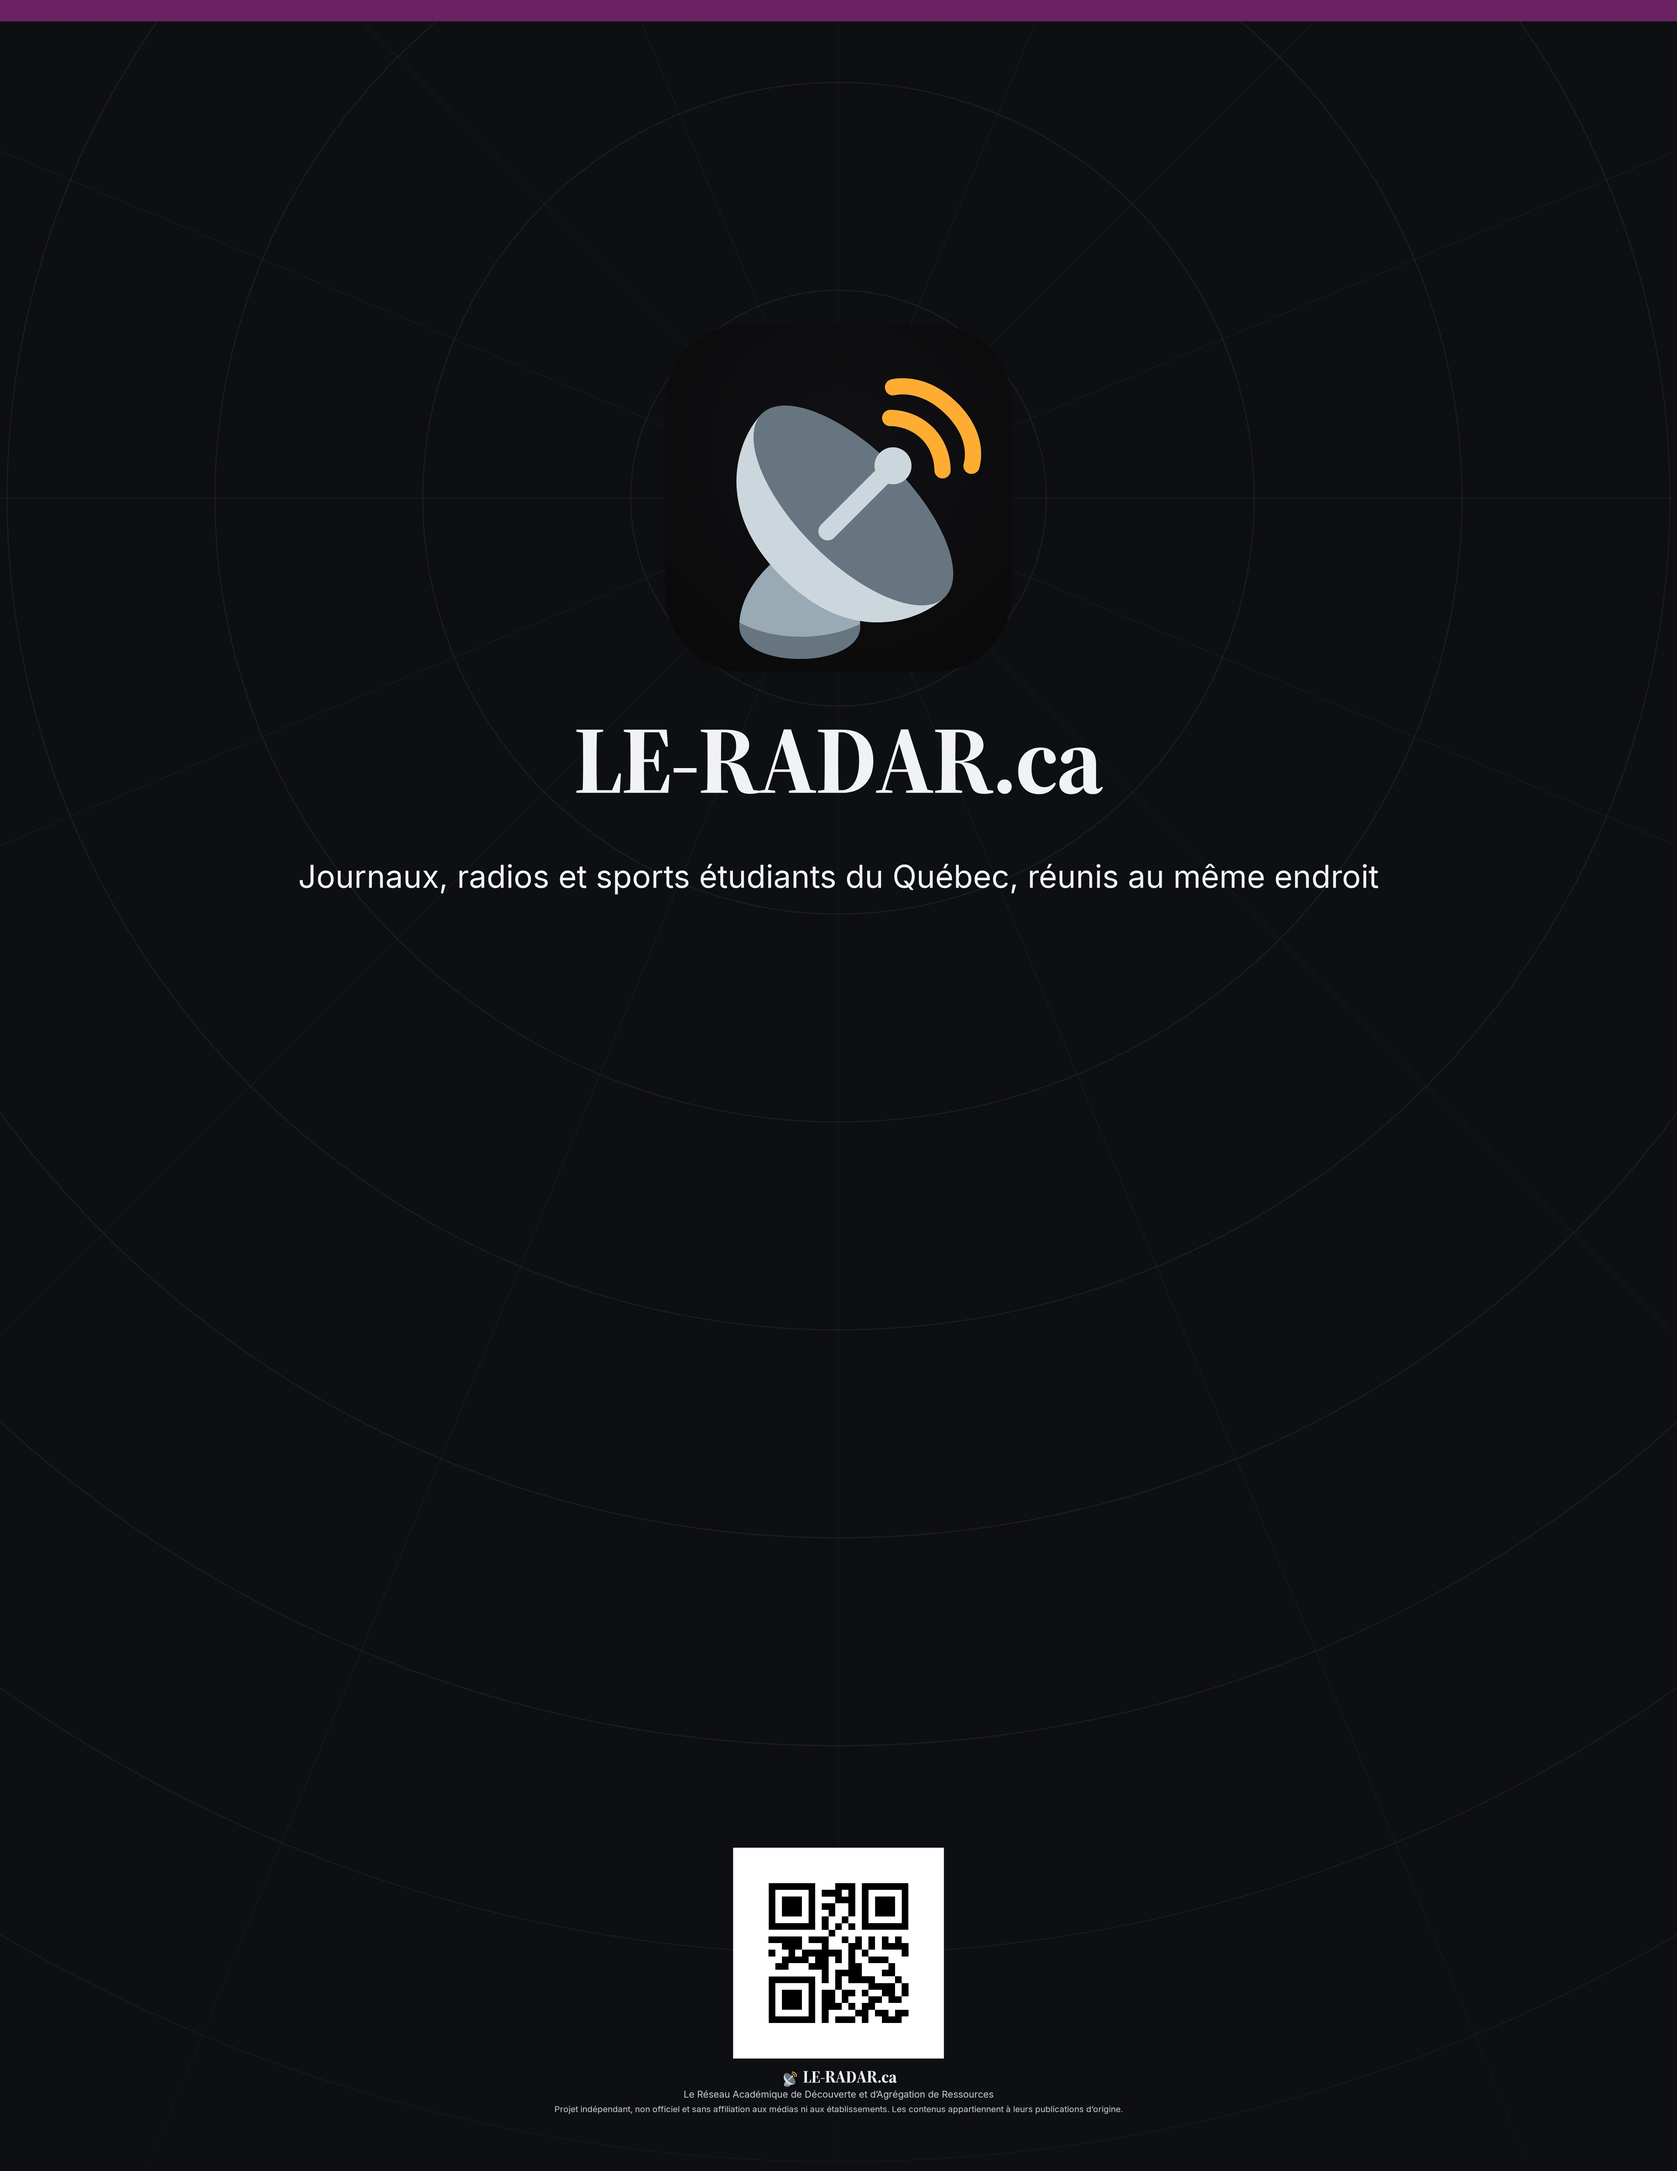
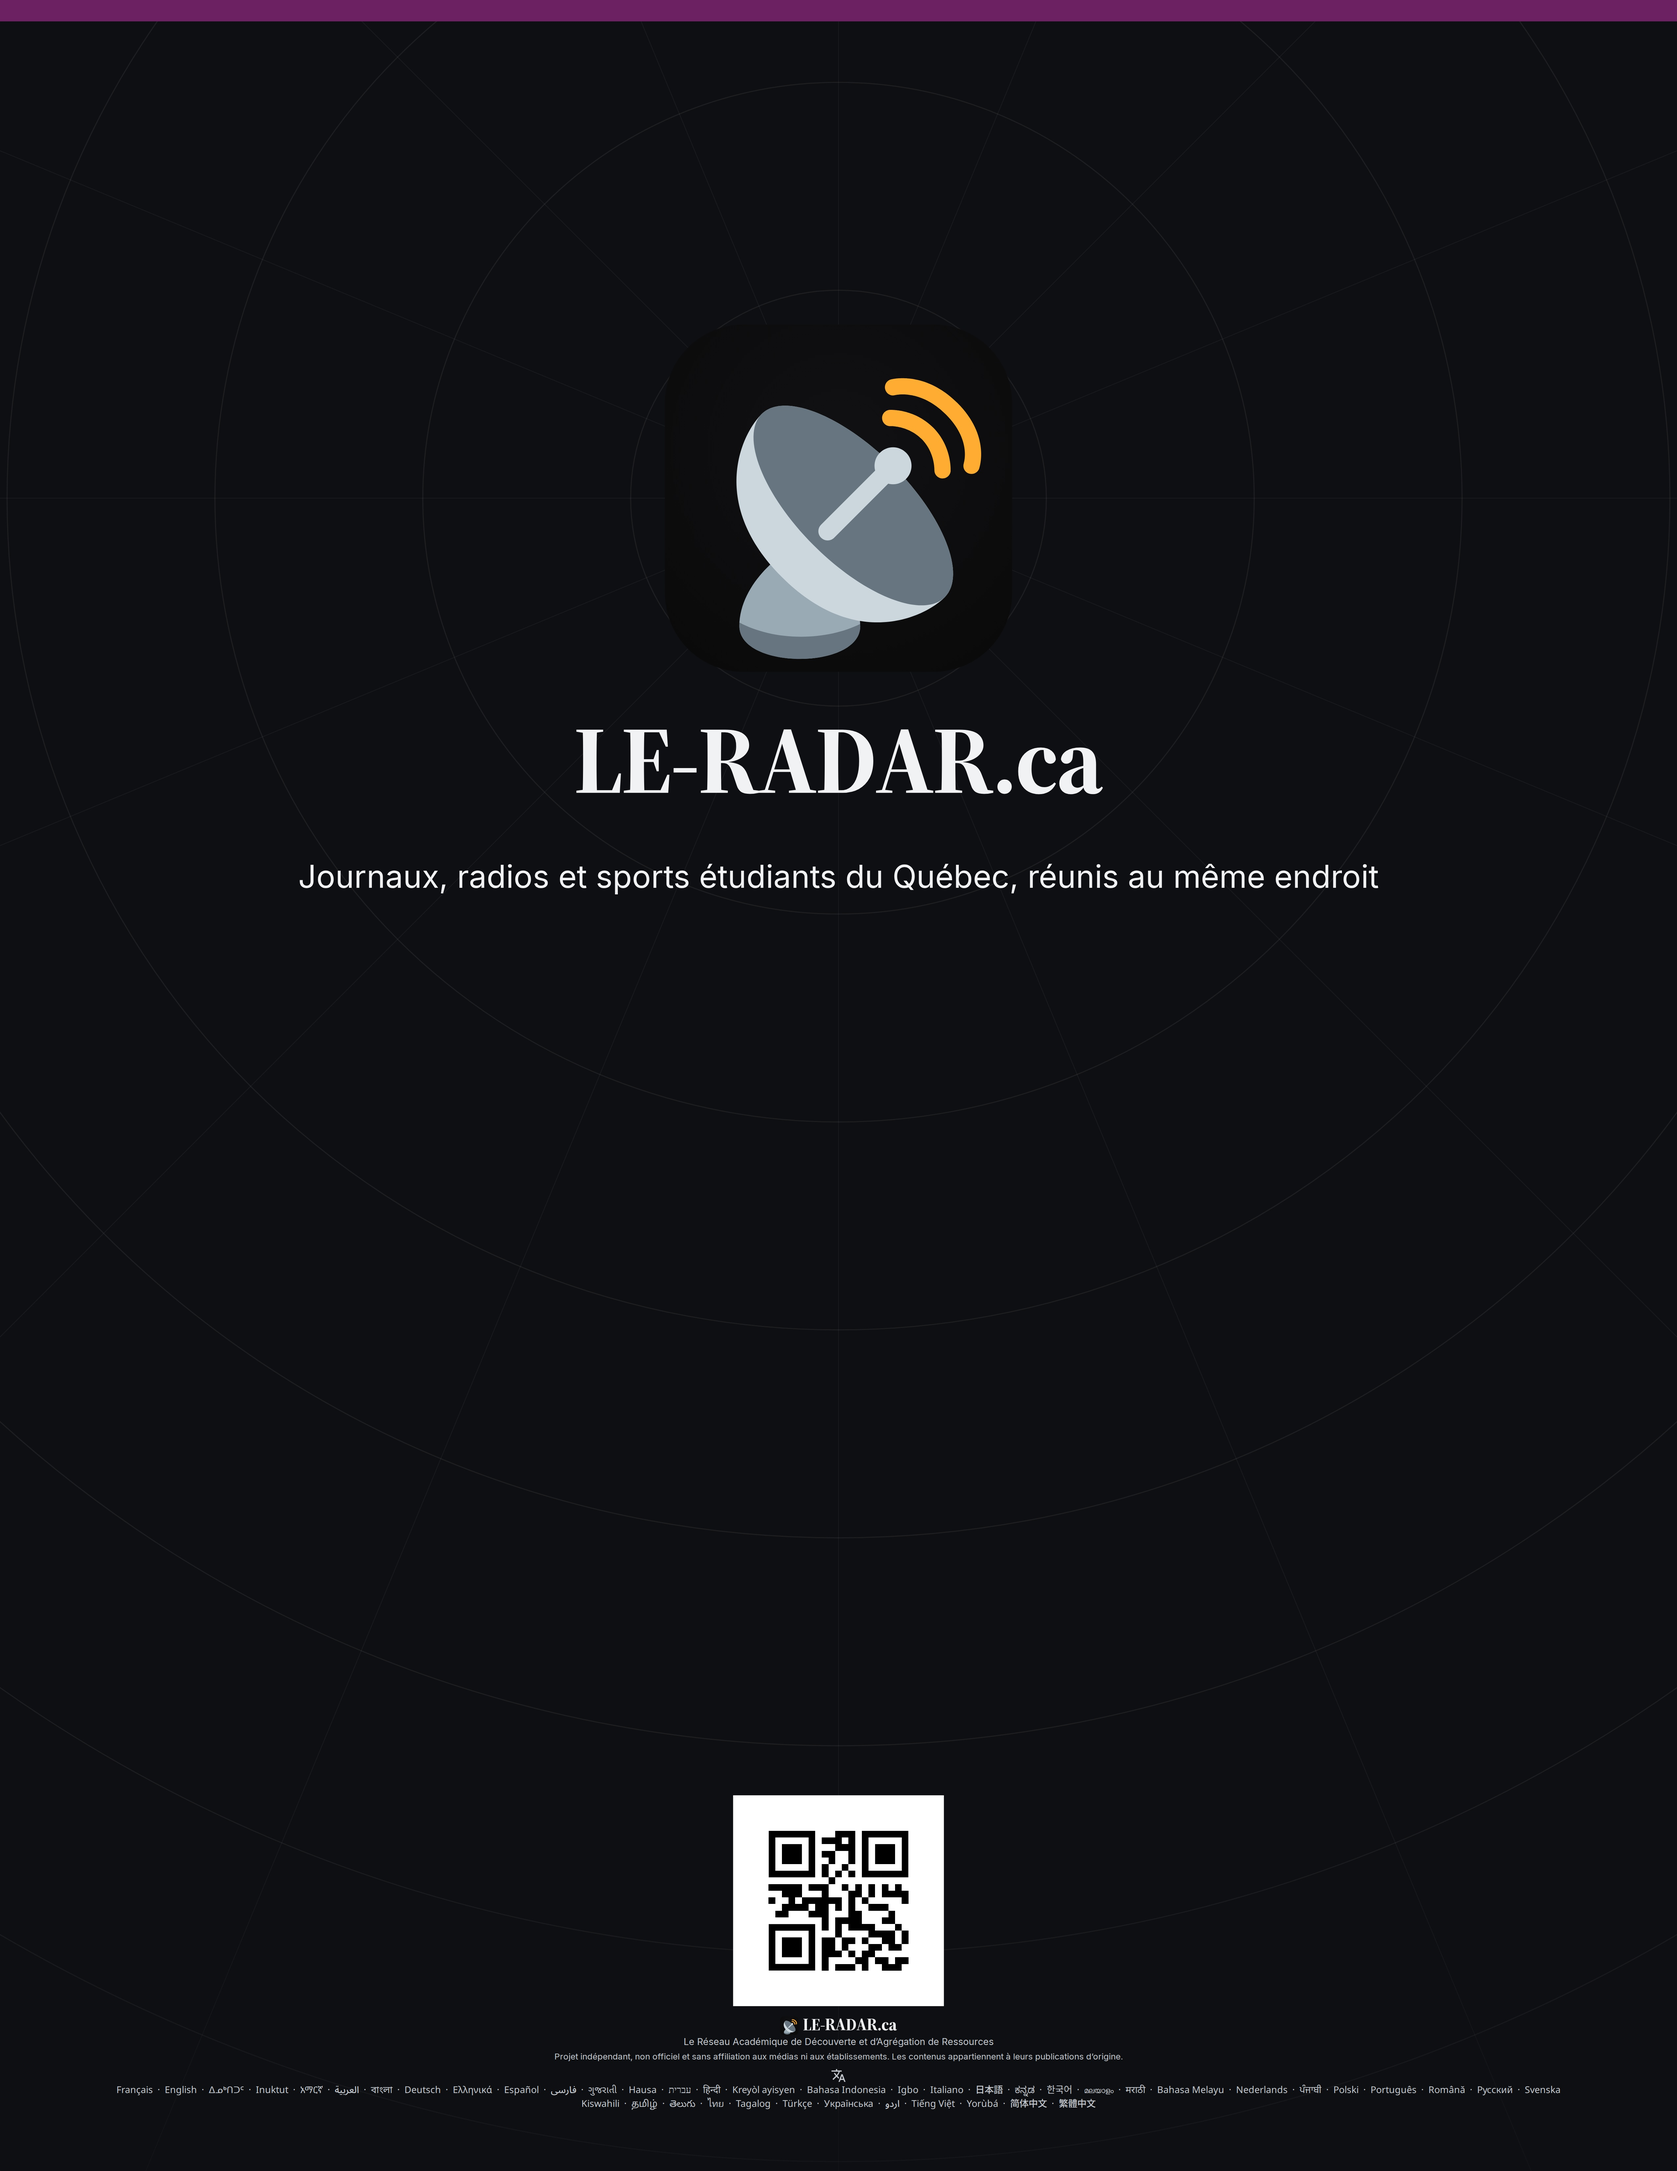
feat(affiches): languages on by default for the generic poster
Générique always includes the site language list. Kit-media default
JPEGs are re-exported with that setting.

Changed region(s): [[0.4053, 0.8115, 0.5924, 0.9676]]

diff --git a/affiches/index.html b/affiches/index.html
@@ -170,8 +170,8 @@
         <fieldset>
           <legend>Langues</legend>
           <div class="choices">
-            <label><input type="radio" name="langs" value="non" checked> Sans</label>
-            <label><input type="radio" name="langs" value="oui"> Langues du site</label>
+            <label><input type="radio" name="langs" value="non"> Sans</label>
+            <label><input type="radio" name="langs" value="oui" checked> Langues du site</label>
           </div>
           <p class="field-hint">Pied d’affiche : icône de traduction, puis les langues dans leur écriture.</p>
         </fieldset>
@@ -267,6 +267,6 @@
   <script src="../engage-prompt.js" defer></script>
   <script src="../dev/midwidth-preview.js?v=wide-auto-e91"></script>
   <script src="../dev/wide-desktop-preview.js?v=wide-auto-e91"></script>
-  <script src="./poster-builder.js?v=kit-campus"></script>
+  <script src="./poster-builder.js?v=langs-default"></script>
 </body>
 </html>

diff --git a/affiches/poster-builder.js b/affiches/poster-builder.js
@@ -172,7 +172,7 @@ const state = {
   campus: 'generique',
   lang: 'standard',
   greeting: 'none',
-  langs: false,
+  langs: true,
   showUni: true,
   qr: true,
   dpi: DEFAULT_DPI,
@@ -990,6 +990,14 @@ function applyQuery() {
     const input = document.querySelector(`input[name="campus"][value="${campus}"]`);
     if (input) input.checked = true;
   }
+  syncGenericLangs();
+}
+
+function syncGenericLangs() {
+  if (state.campus !== 'generique') return;
+  state.langs = true;
+  const oui = document.querySelector('input[name="langs"][value="oui"]');
+  if (oui) oui.checked = true;
 }
 
 function applyChoice(name, value) {
@@ -1002,6 +1010,7 @@ function applyChoice(name, value) {
   if (name === 'campus') {
     state.campus = value;
     state.photoOpen = false;
+    syncGenericLangs();
     syncLangChoice();
     renderChoices();
   }

diff --git a/kit-media/index.html b/kit-media/index.html
@@ -119,7 +119,7 @@
             </div>
             <div class="kit-card__body">
               <p class="kit-card__label">Affiche générique</p>
-              <p class="kit-card__meta">Réglages par défaut · 600 dpi · JPEG</p>
+              <p class="kit-card__meta">Réglages par défaut · langues · 600 dpi · JPEG</p>
               <p class="kit-dl">
                 <a href="../assets/kit/affiches/affiche-generique-11x17-600dpi.jpg" download>11 × 17</a>
                 <a href="../assets/kit/affiches/affiche-generique-lettre-600dpi.jpg" download>Lettre</a>

diff --git a/en/media-kit/index.html b/en/media-kit/index.html
@@ -64,7 +64,7 @@
             </div>
             <div class="kit-card__body">
               <p class="kit-card__label">Default poster</p>
-              <p class="kit-card__meta">Studio defaults · 600 dpi · JPEG</p>
+              <p class="kit-card__meta">Studio defaults · languages · 600 dpi · JPEG</p>
               <p class="kit-dl">
                 <a href="../../assets/kit/affiches/affiche-generique-11x17-600dpi.jpg" download>11 × 17</a>
                 <a href="../../assets/kit/affiches/affiche-generique-lettre-600dpi.jpg" download>Letter</a>
